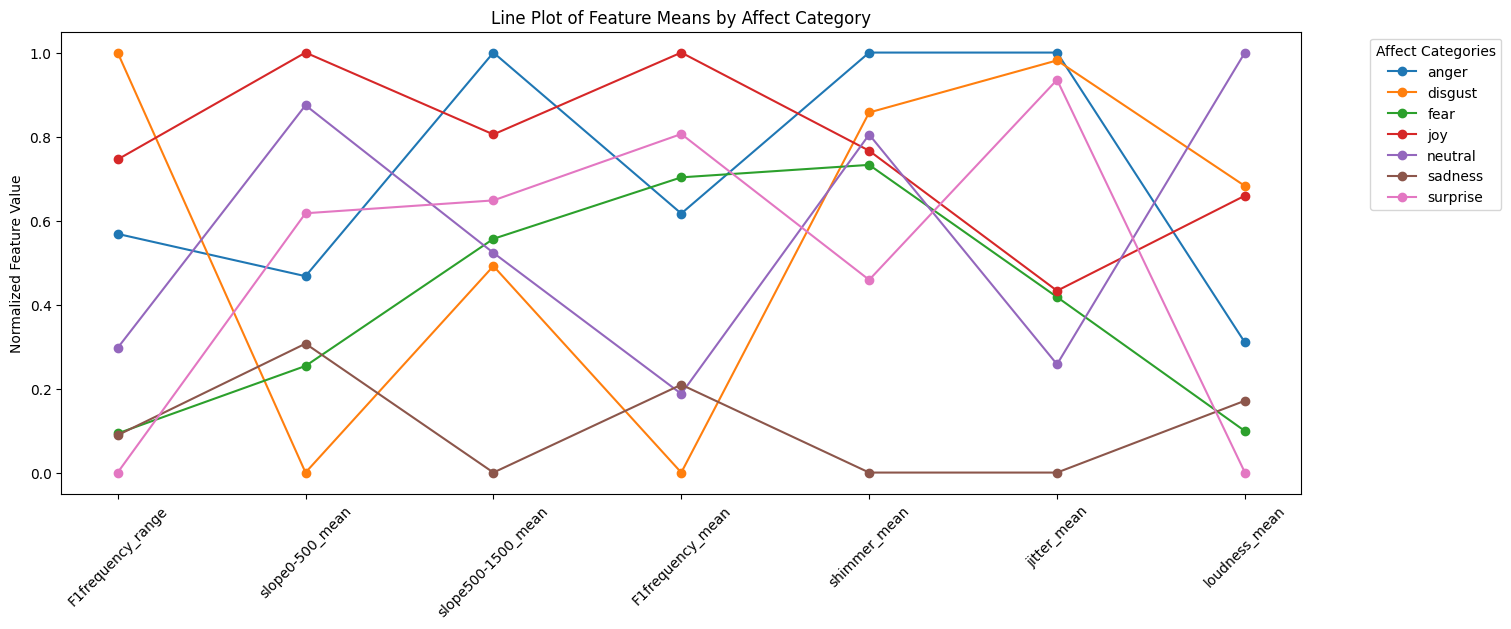
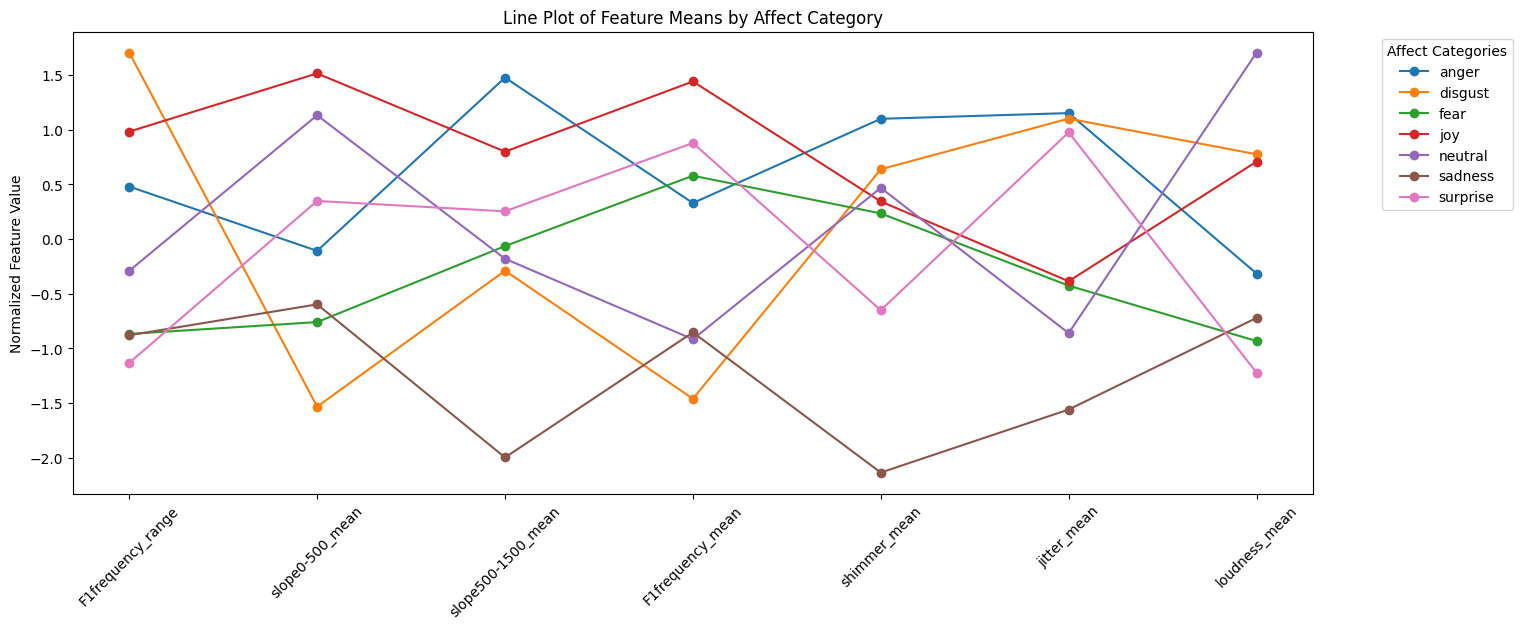
added plots
1. adjust the normalization method and radar plot scale
2. add radar plot based on distance groups
3. radar plot for distance plot for each emotion
4. scatter plot

diff --git a/radarPlot.py b/radarPlot.py
@@ -1,11 +1,14 @@
 # Scaling values below for easier reading
 import os
+from sklearn.preprocessing import StandardScaler
 from sklearn.preprocessing import MinMaxScaler
 import pandas as pd
 import matplotlib.pyplot as plt
 from math import pi
 import seaborn as sns
 from sklearn.decomposition import PCA
+import re
+from sklearn.manifold import TSNE
 
 # Load the CSV file
 DATA_CSV_FILE = './processed_data_with_features_2.csv'  # Replace with your actual path
@@ -25,23 +28,20 @@ features = [
 ]
 category_column = 'affect'
 
-# Filter out 'sadness' affect
+# Replace 'saddness' affect
 data[category_column] = data[category_column].replace('saddness', 'sadness')
-
-# Split data into two groups for radar plots
-group_1_acts = ['fear', 'disgust', 'anger', 'sadness']  # Group 1 (first radar plot)
-group_2_acts = ['neutral', 'joy', 'surprise']  # Group 2 (second radar plot)
 
 # Group data by 'affect' and calculate the mean of the features
 grouped_data = data.groupby(category_column)[features].mean().reset_index()
 
-# Normalize feature values using MinMaxScaler
-scaler = MinMaxScaler()
+# Normalize feature values using StandardScaler
+scaler = StandardScaler()
 normalized_features = pd.DataFrame(
     scaler.fit_transform(grouped_data[features]),
     columns=features
 )
 normalized_data = pd.concat([grouped_data[category_column], normalized_features], axis=1)
+print(normalized_data)
 
 # Correlation heatmap
 corr_matrix = data[features].corr()
@@ -91,7 +91,7 @@ def create_and_save_radar_plot(data, categories, title, filename):
 
     plt.xticks(angles[:-1], categories, color='grey', size=12)
     ax.yaxis.grid(True)
-    ax.set_ylim(0, 1)
+    ax.set_ylim(-2.2, 2) # Adjust based on the data
     plt.title(title, size=16, y=1.1)
     plt.legend(loc='upper right', bbox_to_anchor=(1.3, 1.1))
     plt.savefig(os.path.join(results_folder, filename),bbox_inches='tight')
@@ -101,7 +101,7 @@ def create_and_save_radar_plot(data, categories, title, filename):
 groupings = {
     "Positive Emotions": ["joy", "surprise"],
     "Negative Emotions": ["anger", "fear", "disgust", "sadness"],
-    "High Arousal": ["anger", "surprise", "fear"],
+    "High Arousal": ["anger", "surprise", "fear", "joy"],
     "Low Arousal": ["neutral", "sadness", "disgust"],
     "Neutral Emotion": ["neutral"],
     "Mixed Group 1": ["joy", "fear", "neutral"],
@@ -115,4 +115,189 @@ for group_name, emotions in groupings.items():
         group_data, features, f"Radar Plot: {group_name}", f"radar_plot_{group_name.lower().replace(' ', '_')}.png"
     )
 
+## Radar Plot for Phone Position Groups
+'''
+next to the body 1-7/19
+1-2 m away 8-11/19
+other side of the room 12-15/19
+outside of the room 16-19/19
+'''
 
+# Function to extract the numeric value from the phone_position description
+def extract_position_index(description):
+    match = re.search(r'(\d+)/19', description)
+    if match:
+        return int(match.group(1))
+    return None
+
+# Apply preprocessing to extract numeric position index
+data['phone_position_index'] = data['phone_position'].apply(extract_position_index)
+
+# Classify phone positions into the defined groups
+def classify_position(position):
+    if position in range(1, 8):
+        return "Next to Body"
+    elif position in range(8, 12):
+        return "1-2 m Away"
+    elif position in range(12, 16):
+        return "Other Side of Room"
+    elif position in range(16, 20):
+        return "Outside of Room"
+    return "Unknown"
+
+data['distance_group'] = data['phone_position_index'].apply(classify_position)
+
+# Group by the new distance_group column and calculate mean feature values
+distance_group_data = data.groupby('distance_group')[features].mean().reset_index()
+print (distance_group_data)
+# Normalize the data for radar plotting
+normalized_distance_features = pd.DataFrame(
+    scaler.fit_transform(distance_group_data[features]),
+    columns=features
+)
+normalized_distance_data = pd.concat([distance_group_data['distance_group'], normalized_distance_features], axis=1)
+print(normalized_distance_data)
+
+def create_radar_plot_distance(data, categories, title, filename):
+    num_vars = len(categories)
+    angles = [n / float(num_vars) * 2 * pi for n in range(num_vars)]
+    angles += angles[:1] 
+
+    # Sorting the groups to control legend order
+    sorted_data = data.sort_values(by='distance_group', key=lambda x: x.map({
+        'Next to Body': 1,
+        '1-2 m Away': 2,
+        'Other Side of Room': 3,
+        'Outside of Room': 4
+    }))
+
+    fig, ax = plt.subplots(figsize=(10, 8), subplot_kw=dict(polar=True))
+    colors = plt.cm.tab10(range(len(sorted_data)))
+
+    for i, row in sorted_data.iterrows():
+        values = row.drop('distance_group').values.flatten().tolist()
+        values += values[:1]
+        ax.fill(angles, values, alpha=0.25, color=colors[i], label=row['distance_group'])
+        ax.plot(angles, values, linewidth=2, color=colors[i])
+
+
+    plt.xticks(angles[:-1], categories, color='grey', size=12)
+    ax.yaxis.grid(True)
+    ax.set_ylim(-2, 1.7) # Adjust based on the data
+    plt.title(title, size=16, y=1.1)
+    plt.legend(loc='upper right', bbox_to_anchor=(1.3, 1.1), title="Distance Groups")
+    plt.savefig(os.path.join(results_folder, filename), bbox_inches='tight')
+    plt.close()
+
+create_radar_plot_distance(
+    normalized_distance_data,
+    features,
+    "Radar Plot of Features by Phone Position Groups",
+    "radar_plot_distance_groups.png"
+)
+
+# Function to create radar plot for a single emotion
+def create_emotion_distance_radar(data, emotion, categories, title, filename):
+    num_vars = len(categories)
+    angles = [n / float(num_vars) * 2 * pi for n in range(num_vars)]
+    angles += angles[:1]
+
+    # Sorting the groups to control legend order
+    sorted_data = data.sort_values(by='distance_group', key=lambda x: x.map({
+        'Next to Body': 1,
+        '1-2 m Away': 2,
+        'Other Side of Room': 3,
+        'Outside of Room': 4
+    }))
+
+    fig, ax = plt.subplots(figsize=(10, 8), subplot_kw=dict(polar=True))
+    colors = plt.cm.tab10(range(len(data)))
+
+    for i, row in sorted_data.iterrows():
+        values = row.drop('distance_group').values.flatten().tolist()
+        values += values[:1]
+        ax.fill(angles, values, alpha=0.25, color=colors[i], label=row['distance_group'])
+        ax.plot(angles, values, linewidth=2, color=colors[i])
+
+    plt.xticks(angles[:-1], categories, color='grey', size=12)
+    ax.yaxis.grid(True)
+    ax.set_ylim(-2, 2)  # Adjust based on the data
+    plt.title(f"{title} - {emotion}", size=16, y=1.1)
+    plt.legend(loc='upper right', bbox_to_anchor=(1.3, 1.1), title="Distance Groups")
+    plt.savefig(os.path.join(results_folder, filename), bbox_inches='tight')
+    plt.close()
+
+unique_emotions = data[category_column].unique()
+
+for emotion in unique_emotions:
+    # Filter data for the specific emotion
+    emotion_data = data[data[category_column] == emotion]
+    
+    # Group by distance_group and calculate mean feature values
+    emotion_distance_group_data = emotion_data.groupby('distance_group')[features].mean().reset_index()
+
+    # Normalize the data for radar plotting
+    normalized_emotion_features = pd.DataFrame(
+        scaler.fit_transform(emotion_distance_group_data[features]),
+        columns=features
+    )
+    normalized_emotion_data = pd.concat([emotion_distance_group_data['distance_group'], normalized_emotion_features], axis=1)
+
+    # Create radar plot for the emotion
+    create_emotion_distance_radar(
+        normalized_emotion_data,
+        emotion,
+        features,
+        "Radar Plot of Features by Phone Position",
+        f"radar_plot_distance_{emotion.lower().replace(' ', '_')}.png"
+    )
+
+
+# Define a function for scatter plot
+def scatter_plot_gemaps(data, features, title, filename):
+    # Perform PCA for dimensionality reduction (to 2D for scatter plot)
+    pca = PCA(n_components=2)
+    pca_result = pca.fit_transform(data[features])
+    data['PC1'] = pca_result[:, 0]
+    data['PC2'] = pca_result[:, 1]
+
+    # Facet the scatter plot by 'distance_group'
+    g = sns.FacetGrid(data, col="distance_group", hue=category_column, palette="tab10", height=4, col_wrap=2)
+    g.map(sns.scatterplot, "PC1", "PC2", alpha=0.7)
+
+    # Add legend
+    g.add_legend()
+
+    # Save the faceted plots
+    plt.savefig(os.path.join(results_folder, 'facet_scatter_by_distance_group.png'), bbox_inches='tight')
+    plt.close()
+    
+    # Create a scatter plot with seaborn
+    plt.figure(figsize=(12, 8))
+    sns.scatterplot(
+        x='PC1', 
+        y='PC2', 
+        hue=category_column,  # Color by emotion
+        style='distance_group',  # Shape by distance
+        data=data,
+        palette='tab10',
+        alpha=0.7,
+        s=100  # Marker size
+    )
+
+    # Add title and labels
+    plt.title(title, size=16)
+    plt.xlabel('Principal Component 1')
+    plt.ylabel('Principal Component 2')
+    plt.legend(title="Emotion & Distance", bbox_to_anchor=(1.05, 1), loc='upper left')
+    plt.tight_layout()
+    plt.savefig(os.path.join(results_folder, filename), bbox_inches='tight')
+    plt.close()
+
+# Call the function
+scatter_plot_gemaps(
+    data, 
+    features, 
+    "Scatter Plot of GeMAPS Features (Colored by Emotion, Shaped by Distance)", 
+    "scatter_plot_gemaps_emotion_distance.png"
+)

diff --git a/tempCodeRunnerFile.py b/tempCodeRunnerFile.py
@@ -1,0 +1,1 @@
+StandardScaler
